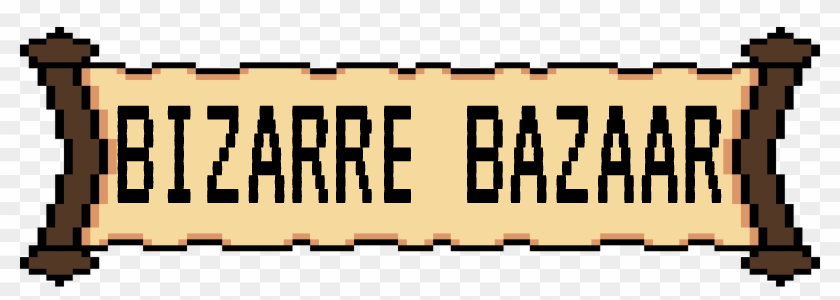
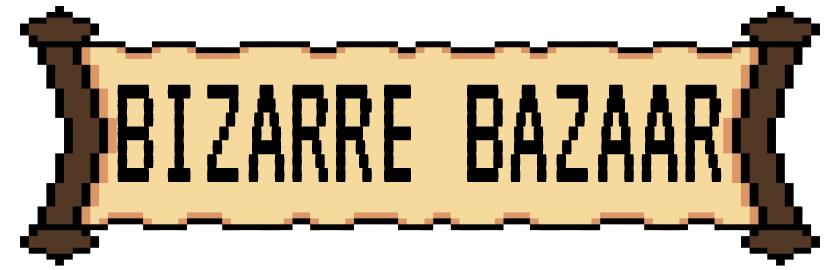
visual updates done for now

diff --git a/spring-with-react-main/react-frontend-project-two/project-two/src/index.css b/spring-with-react-main/react-frontend-project-two/project-two/src/index.css
@@ -31,6 +31,69 @@ code {
   background-repeat: no-repeat; /* Do not repeat the image */
   background-size: cover;
 }
+.titleImg{
+  background-image:url("../public/title.png");
+  background-color: transparent; /* Used if the image is unavailable */
+  background-position: center; /* Center the image */
+  background-repeat: no-repeat; /* Do not repeat the image */
+  height: 300px;
+}
+.signUp{
+  background-image:url("../public/signup.png");
+  background-color: transparent; /* Used if the image is unavailable */
+  background-position: center; /* Center the image */
+  background-repeat: no-repeat; /* Do not repeat the image */
+  height: 150px;
+}
+.cartImg{
+  background-image:url("../public/cartsign.png");
+  background-color: transparent; /* Used if the image is unavailable */
+  background-position: center; /* Center the image */
+  background-repeat: no-repeat; /* Do not repeat the image */
+  height: 150px;
+}
+.signIn{
+  background-image:url("../public/signinbanner.png");
+  background-color: transparent; /* Used if the image is unavailable */
+  background-position: center; /* Center the image */
+  background-repeat: no-repeat; /* Do not repeat the image */
+  height: 150px;
+}
+.purchaseSign{
+  background-image:url("../public/games.png");
+  background-color: transparent; /* Used if the image is unavailable */
+  background-position: center; /* Center the image */
+  background-repeat: no-repeat; /* Do not repeat the image */
+  height: 150px;
+}
+.myGames{
+  background-image:url("../public/mygames.png");
+  background-color: transparent; /* Used if the image is unavailable */
+  background-position: center; /* Center the image */
+  background-repeat: no-repeat; /* Do not repeat the image */
+  height: 150px;
+}
+.addGameImg{
+  background-image:url("../public/addgame.png");
+  background-color: transparent; /* Used if the image is unavailable */
+  background-position: center; /* Center the image */
+  background-repeat: no-repeat; /* Do not repeat the image */
+  height: 100px;
+}
+.deleteGameImg{
+  background-image:url("../public/deletegame.png");
+  background-color: transparent; /* Used if the image is unavailable */
+  background-position: center; /* Center the image */
+  background-repeat: no-repeat; /* Do not repeat the image */
+  height: 100px;
+}
+.discountImg{
+  background-image:url("../public/discounts.png");
+  background-color: transparent; /* Used if the image is unavailable */
+  background-position: center; /* Center the image */
+  background-repeat: no-repeat; /* Do not repeat the image */
+  height: 100px;
+}
 .sUpCenter{
   position: absolute;
   top: 30%;
@@ -204,10 +267,9 @@ code {
   border-radius: 25px;
 }
 .title {
-  font-size: 50px;
+  
   padding: 35px;
   position: relative;
-  text-align: center;
 }
 .gameSize {
   height: 180px;
@@ -221,8 +283,8 @@ code {
 .back {
   background-image: url("../public/back.png");
   position: absolute;
-  height: 9%;
-  width: 10.5%;
+  height: 10%;
+  width: 9.5%;
   background-repeat: no-repeat; /* Do not repeat the image */
   background-size: cover; 
   margin-top: 42px;

diff --git a/spring-with-react-main/react-frontend-project-two/project-two/src/components/HNavigate.jsx b/spring-with-react-main/react-frontend-project-two/project-two/src/components/HNavigate.jsx
@@ -2,23 +2,25 @@ export const HNavigate = () => {
     var temp;
     console.log(localStorage.getItem("id"))
     if (localStorage.getItem("id")){
-        temp = "btn btn-primary btn-lg active m-5 py-3 px-5"
+        temp = "btn btn-default m-5 py-3 px-5 signOne"
     }
     else{
-        temp = "disabled btn btn-primary btn-lg active m-5 py-3 px-5"
+        temp = "disabled btn btn-default m-5 py-3 px-5 signOne"
     }
+    const handleLogout = ()=>{localStorage.removeItem("id")};
     return(
         <>
         <div class="text-center pt-2 pb-5">
-            <a href="/sign" class="btn btn-primary btn-lg active m-5 py-3 px-5" role="button" aria-pressed="true" style={{fontSize: "40px"} }>Create</a>
-            <a href="/sign2" class="btn btn-primary btn-lg active m-5 py-3 px-5" role="button" aria-pressed="true" style={{fontSize: "40px"}}>Sign-In</a>
+            <a href="/sign" class="btn btn-default m-5 py-3 px-5 signOne" role="button" aria-pressed="true" style={{fontSize: "40px", fontFamily:"serif"} }>Create</a>
+            <a href="/sign2" class="btn btn-default m-5 py-3 px-5 signOne" role="button" aria-pressed="true" style={{fontSize: "40px", fontFamily:"serif"}}>Sign-In</a>
         </div>
         <div class="text-center pb-5">
-            <a href="/purchase" class={temp} role="button" aria-pressed="true" style={{fontSize: "40px"}}>Browse</a>
-            <a href="/owned" class={temp} role="button" aria-pressed="true" style={{fontSize: "40px"}}>Owned</a>
+            <a href="/purchase" class={temp} role="button" aria-pressed="true" style={{fontSize: "40px", fontFamily:"serif"}}>Browse</a>
+            <a href="/owned" class={temp} role="button" aria-pressed="true" style={{fontSize: "40px", fontFamily:"serif"}}>Owned</a>
         </div>
         <div class="text-center">
-        <a href="/merchant" class={temp} role="button" aria-pressed="true" style={{fontSize: "40px"}}>Manage</a>
+        <a href="/merchant" class={temp} role="button" aria-pressed="true" style={{fontSize: "40px", fontFamily:"serif"}}>Manage</a>
+        <a href="/" class={temp} role="button" aria-pressed="true" style={{fontSize: "40px", fontFamily:"serif"}} onClick={handleLogout}>Logout</a>
         </div>
         </>
     );

diff --git a/spring-with-react-main/react-frontend-project-two/project-two/src/components/merchant/MNew.jsx b/spring-with-react-main/react-frontend-project-two/project-two/src/components/merchant/MNew.jsx
@@ -44,7 +44,7 @@ export const MNew = () => {
 
     return(
         <>
-        <div className="merchantScroll">
+        
         <div className="input-group mb-3 long centeredSelGame">
             <input type="text" className="form-control bg-light" placeholder="Title" aria-label="title" id="title" ref={titleRef} required  />
             {/* <input type="text" className="form-control bg-light" placeholder="Genre" aria-label="genre" id="genre" ref={genreRef} required /> */}
@@ -65,11 +65,10 @@ export const MNew = () => {
                 <div>
                     <textarea className="bg-light bigtextbox" placeholder="description" aria-label="description" id="description" ref={descriptionRef} required></textarea>
                     {/* <input type= "textarea" className="bg-light bigtextbox" placeholder="Description" aria-label="description" /> */}
-                    <button className="btn btn-default merchantaddsubmit signTwo" type="button" onClick={handleSubmit}>Submit</button>
+                    <button className="btn btn-default merchantaddsubmit signTwo" style={{fontSize:"40", fontFamily:"serif"}} onClick={handleSubmit}>Add Game</button>
 
                 </div>
 
-        </div>
         </div>
 
         </>

diff --git a/spring-with-react-main/react-frontend-project-two/project-two/src/components/SSigning.jsx b/spring-with-react-main/react-frontend-project-two/project-two/src/components/SSigning.jsx
@@ -46,7 +46,7 @@ export const SSigning = () => {
                 {/* <button className="btn btn-primary active button1" type="button" onClick={handleSubmit}>Submit</button>
                 <a href="/" className="btn btn-primary btn-lg active m-5 p-5" role="button" aria-pressed="true" style={{fontSize: "40px"}} onClick = {handleSubmit}>Confirm</a> */}
                 
-                <a href="/" className="btn btn-basic m-5 px-5 py-5 signTwo" role="button" aria-pressed="true" style={{fontSize: "40px"}} onClick = {handleAdd}>Confirm</a>
+                <a href="/" className="btn btn-basic m-5 px-5 py-5 signTwo" role="button" aria-pressed="true" style={{fontSize: "40px", fontFamily:"serif"}} onClick = {handleAdd}>Sign Up</a>
             </div>
         </div>
         </div>

diff --git a/spring-with-react-main/react-frontend-project-two/project-two/src/components/merchant/MDiscount.jsx b/spring-with-react-main/react-frontend-project-two/project-two/src/components/merchant/MDiscount.jsx
@@ -55,7 +55,7 @@ export const MDiscount = () => {
             <input type="text" className="form-control bg-light long2" placeholder="Genre" aria-label="genre" ref={genreRef} required="required"  />
             
             <input type="number" className="form-control bg-ligh long2" placeholder="Discount" ara-label="discount" required="required" ref={discountRef}/>
-            <button className="btn btn-default merchantdiscount  long2 signTwo" type="button" onClick={handleSubmit}>Submit</button>
+            <button className="btn btn-default merchantdiscount  long2 signTwo" type="button" style={{fontSize:"40", fontFamily:"serif"}} onClick={handleSubmit}>Update</button>
         </form>
         
         </>   

diff --git a/spring-with-react-main/react-frontend-project-two/project-two/src/components/SSigning2.jsx b/spring-with-react-main/react-frontend-project-two/project-two/src/components/SSigning2.jsx
@@ -43,7 +43,7 @@ export const SSigning2 = () => {
         <div className="signinButtonCenter">
             <div className = "">
                 {/* <a href="/" className="btn btn-primary active button1" role="button" area-pressed="true" onClick={handleSubmit}>Submit</a> */}
-                <a href="/" className="btn m-4 px-6 py-4 signTwo" role="button" aria-pressed="true" style={{fontSize: "40px"}} onClick = {handleSubmit}>Confirm</a>
+                <a href="/" className="btn m-4 px-6 py-4 signTwo" role="button" aria-pressed="true" style={{fontSize: "40px", fontFamily:"serif"}} onClick = {handleSubmit}>Sign In</a>
             </div>
         </div>
         

diff --git a/spring-with-react-main/react-frontend-project-two/project-two/src/pages/Merchant.jsx b/spring-with-react-main/react-frontend-project-two/project-two/src/pages/Merchant.jsx
@@ -5,11 +5,11 @@ export const Merchant = () => {
         <>
         <back.Back/>
         <div className="manageBackground">
-            <h1 className="text-center title">Add New Game</h1>
+        <div className="title addGameImg"></div>
             <admin.MNew />
-            <h1 className="text-center title">Remove Game</h1>
+            <div className="title deleteGameImg"></div>
             <admin.MDelete />
-            <h1 className="text-center title">Update Discounts</h1>
+            <div className="title discountImg"></div>
             <admin.MDiscount />
         </div>  
         

diff --git a/spring-with-react-main/react-frontend-project-two/project-two/src/components/confirmation/CGames.jsx b/spring-with-react-main/react-frontend-project-two/project-two/src/components/confirmation/CGames.jsx
@@ -69,7 +69,7 @@ export const CGames = () => {
                 <div className="space-up">
                     Total : ${ Math.floor((total)*100)/100}
                 </div>
-                <a href="/" className="btn btn-basic m-3 px-6 py-4 signTwo" role="button" aria-pressed="true" style={{fontSize: "40px"}} onClick = {handleAdd}>Confirm</a>
+                <a href="/" className="btn btn-basic m-3 px-6 py-4 signTwo" role="button" aria-pressed="true" style={{fontSize: "40px", fontFamily:"serif"}} onClick = {handleAdd}>Confirm</a>
             </div>
         </> 
     );

diff --git a/spring-with-react-main/react-frontend-project-two/project-two/src/components/merchant/MDelete.jsx b/spring-with-react-main/react-frontend-project-two/project-two/src/components/merchant/MDelete.jsx
@@ -45,7 +45,7 @@ export const MDelete = () => {
             
         </div>
         <div className= "input-group mb-3 long3 centeredSelGame">
-            <button className="btn btn-danger button1 signTwo" type="button" onClick={handleDelete}>Delete</button>
+            <button className="btn btn-default button1 signTwo" type="button" style={{fontSize:"40", fontFamily:"serif"}}onClick={handleDelete}>Delete</button>
 
             {/* <button className="btn btn-primary active button1" type="button" onClick={handleUpdate}>Update</button> */}
         </div>    

diff --git a/spring-with-react-main/react-frontend-project-two/project-two/src/components/confirmation/CPurchase.jsx b/spring-with-react-main/react-frontend-project-two/project-two/src/components/confirmation/CPurchase.jsx
@@ -2,7 +2,7 @@ export const CPurchase = () => {
     return(
         <>
         <div className="text-center">
-        <a href="/" className="btn btn-primary btn-lg active m-5 p-5" role="button" aria-pressed="true" style={{fontSize: "40px"}}>Confirm</a>
+        <a href="/" className="btn btn-primary btn-lg active m-5 p-5" role="button" aria-pressed="true" style={{fontSize: "40px", fontFamily:"serif"}}>Confirm</a>
         </div>
         </> 
     ); 

diff --git a/spring-with-react-main/react-frontend-project-two/project-two/src/components/purchase/PPurchase.jsx b/spring-with-react-main/react-frontend-project-two/project-two/src/components/purchase/PPurchase.jsx
@@ -2,7 +2,7 @@ export const PPurchase = () => {
     return(
         <>
         <div className="text-center">
-        <a href="/confirmation" className="btn btn-default px-5 signTwo" role="button" aria-pressed="true" style={{fontSize: "40px"}}>Buy</a>
+        <a href="/confirmation" className="btn btn-default px-5 signTwo" role="button" aria-pressed="true" style={{fontSize:"40", fontFamily:"serif"}}>Buy</a>
         </div>
         </> 
     ); 

diff --git a/spring-with-react-main/react-frontend-project-two/project-two/src/pages/Purchase.jsx b/spring-with-react-main/react-frontend-project-two/project-two/src/pages/Purchase.jsx
@@ -5,7 +5,7 @@ export const Purchase = () => {
         <>
         <div className="browseBackground">
         <back.Back/>
-        <h1 className="text-center title">GAMES</h1>
+        <div className="title purchaseSign"></div>
         <buy.PGames/>
         <buy.PPurchase/>
         </div>
